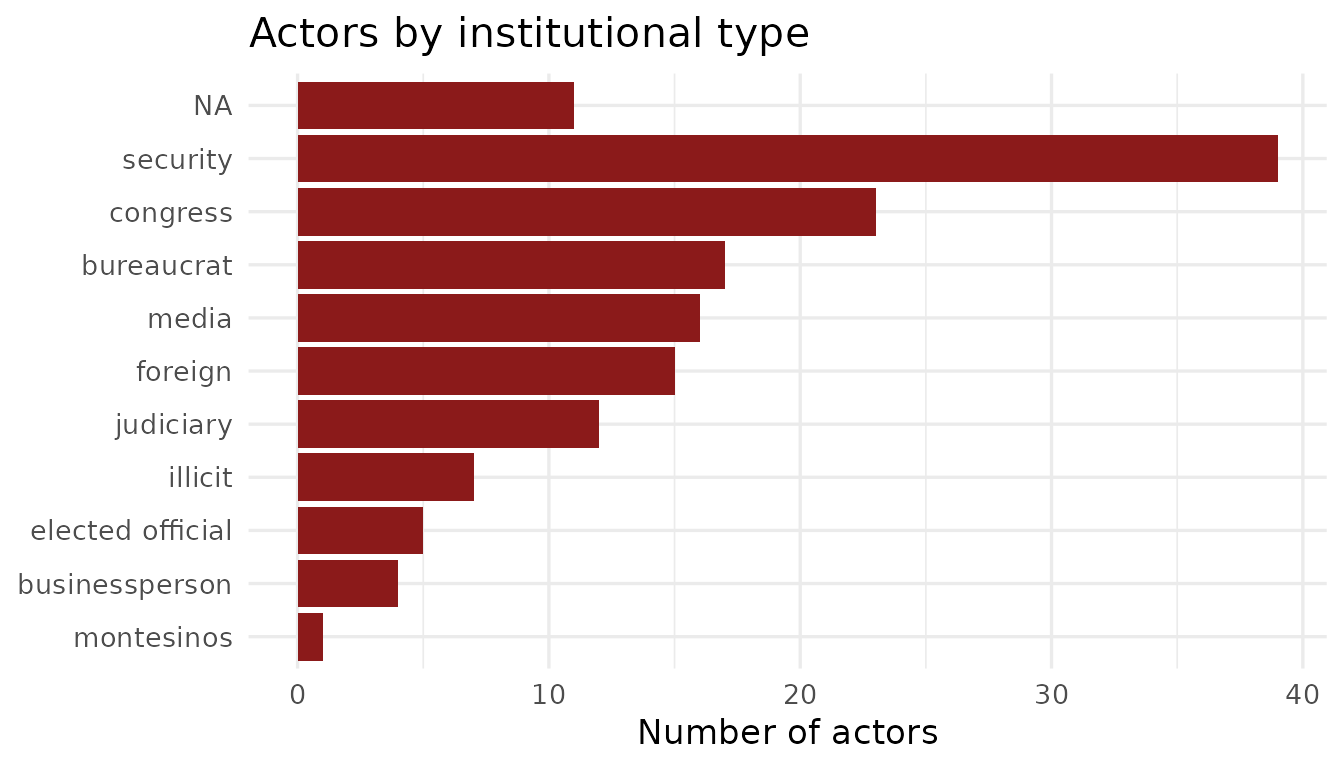
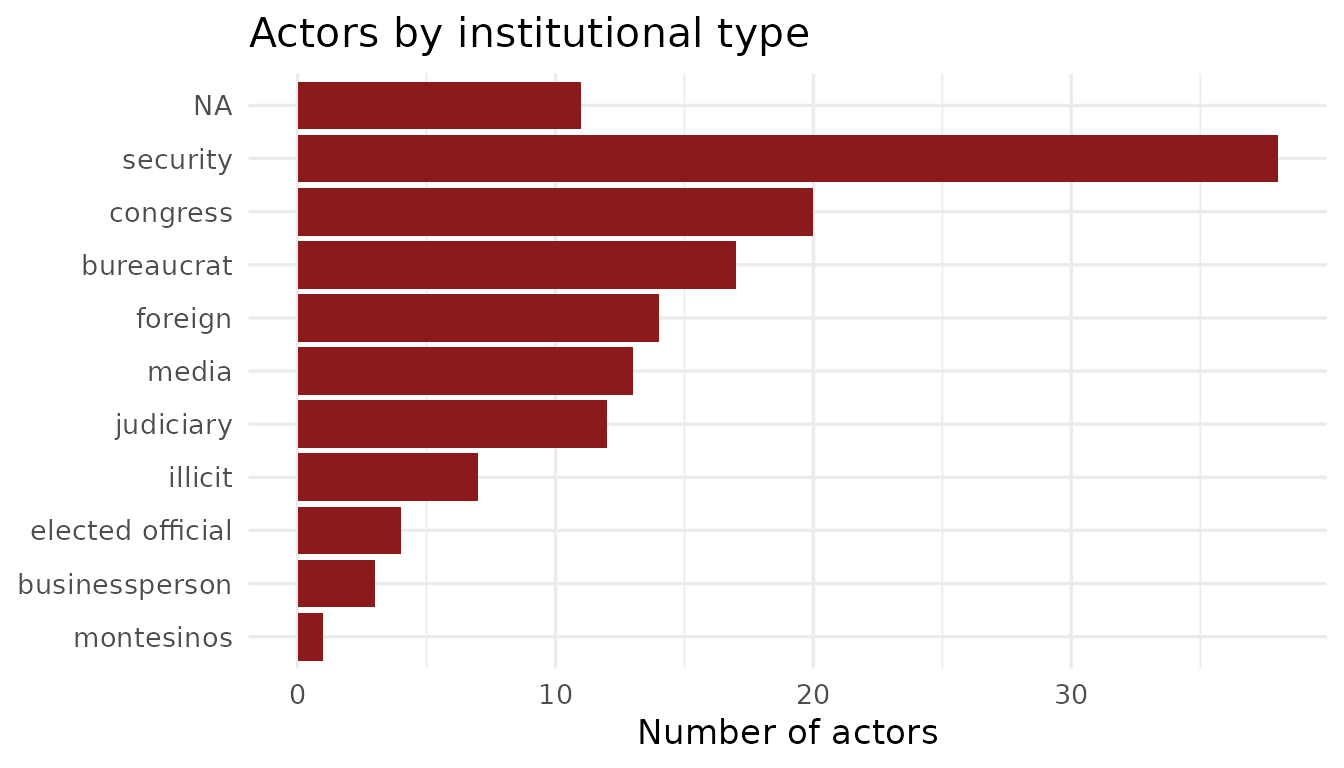
Deploying to gh-pages from @ jessietrudeau/BribeR@ea27d6f9f49f3cec55bac36ad1629fcfcb298547 🚀

diff --git a/articles/briber_data_guide.html b/articles/briber_data_guide.html
@@ -310,20 +310,20 @@ maximum of 19.</p>
 <h3 id="actors">
 <code>actors</code><a class="anchor" aria-label="anchor" href="#actors"></a>
 </h3>
-<p>This file contains biographical and institutional metadata for 150
-individuals named in the transcripts. The variable names are shown in
-the below table.</p>
+<p>This file contains biographical and institutional metadata for the
+140 individuals recorded speaking in the transcripts. The variable names
+are shown in the below table.</p>
 <div class="sourceCode" id="cb5"><pre class="downlit sourceCode r">
 <code class="sourceCode R"><span><span class="fu"><a href="https://rdrr.io/r/utils/head.html" class="external-link">head</a></span><span class="op">(</span><span class="va">actors</span><span class="op">)</span></span>
-<span><span class="co">#&gt; <span style="color: #949494;"># A tibble: 6 × 7</span></span></span>
-<span><span class="co">#&gt;   speaker                      speaker_std position type  party notes is_speaker</span></span>
-<span><span class="co">#&gt;   <span style="color: #949494; font-style: italic;">&lt;chr&gt;</span>                        <span style="color: #949494; font-style: italic;">&lt;chr&gt;</span>       <span style="color: #949494; font-style: italic;">&lt;chr&gt;</span>    <span style="color: #949494; font-style: italic;">&lt;chr&gt;</span> <span style="color: #949494; font-style: italic;">&lt;chr&gt;</span> <span style="color: #949494; font-style: italic;">&lt;chr&gt;</span>      <span style="color: #949494; font-style: italic;">&lt;int&gt;</span></span></span>
-<span><span class="co">#&gt; <span style="color: #BCBCBC;">1</span> vladimir montesinos          montesinos  Head of… mont… <span style="color: #BB0000;">NA</span>    <span style="color: #BB0000;">NA</span>             1</span></span>
-<span><span class="co">#&gt; <span style="color: #BCBCBC;">2</span> desconocido                  desconocido <span style="color: #BB0000;">NA</span>       <span style="color: #BB0000;">NA</span>    <span style="color: #BB0000;">NA</span>    <span style="color: #BB0000;">NA</span>             1</span></span>
-<span><span class="co">#&gt; <span style="color: #BCBCBC;">3</span> alexander martin kouri buma… alex kouri  Congres… cong… PPC   <span style="color: #BB0000;">NA</span>             1</span></span>
-<span><span class="co">#&gt; <span style="color: #BCBCBC;">4</span> representante de lucchetti   lucchetti   Represe… busi… <span style="color: #BB0000;">NA</span>    The …          1</span></span>
-<span><span class="co">#&gt; <span style="color: #BCBCBC;">5</span> carlos eduardo ferrero costa ferrero     Congres… cong… NM    Mult…          1</span></span>
-<span><span class="co">#&gt; <span style="color: #BCBCBC;">6</span> alberto fujimori             fujimori    Preside… elec… <span style="color: #BB0000;">NA</span>    <span style="color: #BB0000;">NA</span>             1</span></span></code></pre></div>
+<span><span class="co">#&gt; <span style="color: #949494;"># A tibble: 6 × 6</span></span></span>
+<span><span class="co">#&gt;   speaker                         speaker_std position         type  party notes</span></span>
+<span><span class="co">#&gt;   <span style="color: #949494; font-style: italic;">&lt;chr&gt;</span>                           <span style="color: #949494; font-style: italic;">&lt;chr&gt;</span>       <span style="color: #949494; font-style: italic;">&lt;chr&gt;</span>            <span style="color: #949494; font-style: italic;">&lt;chr&gt;</span> <span style="color: #949494; font-style: italic;">&lt;chr&gt;</span> <span style="color: #949494; font-style: italic;">&lt;chr&gt;</span></span></span>
+<span><span class="co">#&gt; <span style="color: #BCBCBC;">1</span> vladimir montesinos             montesinos  Head of Nationa… mont… <span style="color: #BB0000;">NA</span>    <span style="color: #BB0000;">NA</span>   </span></span>
+<span><span class="co">#&gt; <span style="color: #BCBCBC;">2</span> desconocido                     desconocido <span style="color: #BB0000;">NA</span>               <span style="color: #BB0000;">NA</span>    <span style="color: #BB0000;">NA</span>    <span style="color: #BB0000;">NA</span>   </span></span>
+<span><span class="co">#&gt; <span style="color: #BCBCBC;">3</span> alexander martin kouri bumachar alex kouri  Congressman (19… cong… PPC   <span style="color: #BB0000;">NA</span>   </span></span>
+<span><span class="co">#&gt; <span style="color: #BCBCBC;">4</span> representante de lucchetti      lucchetti   Representative … busi… <span style="color: #BB0000;">NA</span>    The …</span></span>
+<span><span class="co">#&gt; <span style="color: #BCBCBC;">5</span> carlos eduardo ferrero costa    ferrero     Congressman (19… cong… NM    Mult…</span></span>
+<span><span class="co">#&gt; <span style="color: #BCBCBC;">6</span> alberto fujimori                fujimori    President of Pe… elec… <span style="color: #BB0000;">NA</span>    <span style="color: #BB0000;">NA</span></span></span></code></pre></div>
 <table class="table">
 <colgroup>
 <col width="25%">
@@ -377,15 +377,6 @@ abbreviation variable for Peru in the V-Party dataset: &lt;code&gt;NM&lt;/code&g
 <td>character</td>
 <td>Miscellaneous notes for actors that were difficult to identify</td>
 </tr>
-<tr class="odd">
-<td><code>is_speaker</code></td>
-<td>integer</td>
-<td>1 if the individual has at least one speech turn in the corpus, 0 if
-they are named in the archive but never recorded speaking. Only those
-with <code>is_speaker == 1</code> can be filtered with
-<code><a href="../reference/get_transcript_id.html">get_transcript_id()</a></code>
-</td>
-</tr>
 </tbody>
 </table>
 <p>For example, the file contains this biographical information about
@@ -398,9 +389,9 @@ some of the speakers from Fujimori’s party:</p>
 <span><span class="co">#&gt; <span style="color: #949494;"># A tibble: 3 × 5</span></span></span>
 <span><span class="co">#&gt;   speaker               speaker_std position              type     party</span></span>
 <span><span class="co">#&gt;   <span style="color: #949494; font-style: italic;">&lt;chr&gt;</span>                 <span style="color: #949494; font-style: italic;">&lt;chr&gt;</span>       <span style="color: #949494; font-style: italic;">&lt;chr&gt;</span>                 <span style="color: #949494; font-style: italic;">&lt;chr&gt;</span>    <span style="color: #949494; font-style: italic;">&lt;chr&gt;</span></span></span>
-<span><span class="co">#&gt; <span style="color: #BCBCBC;">1</span> rafael urrelo guerra  urrelo      Congressman 1995-2000 congress NM   </span></span>
-<span><span class="co">#&gt; <span style="color: #BCBCBC;">2</span> carlos blanco oropeza blanco      Congressman 1995-2000 congress NM   </span></span>
-<span><span class="co">#&gt; <span style="color: #BCBCBC;">3</span> jorge trelles montero trelles     Congressman 1995-2000 congress NM</span></span></code></pre></div>
+<span><span class="co">#&gt; <span style="color: #BCBCBC;">1</span> carlos blanco oropeza blanco      Congressman 1995-2000 congress NM   </span></span>
+<span><span class="co">#&gt; <span style="color: #BCBCBC;">2</span> jorge trelles montero trelles     Congressman 1995-2000 congress NM   </span></span>
+<span><span class="co">#&gt; <span style="color: #BCBCBC;">3</span> eduardo pando pacheco pando       Congressman 1995-2000 congress NM</span></span></code></pre></div>
 </div>
 </div>
 <div class="section level2">
@@ -492,7 +483,7 @@ can reference them by name after <code><a href="https://jessietrudeau.github.io/
 <span><span class="co">#&gt; [1] 45342</span></span>
 <span><span class="fu"><a href="https://rdrr.io/r/base/names.html" class="external-link">names</a></span><span class="op">(</span><span class="va">actors</span><span class="op">)</span></span>
 <span><span class="co">#&gt; [1] "speaker"     "speaker_std" "position"    "type"        "party"      </span></span>
-<span><span class="co">#&gt; [6] "notes"       "is_speaker"</span></span></code></pre></div>
+<span><span class="co">#&gt; [6] "notes"</span></span></code></pre></div>
 </div>
 
   </main><aside class="col-md-3"><nav id="toc" aria-label="Table of contents"><h2>On this page</h2>

diff --git a/articles/using_briber.html b/articles/using_briber.html
@@ -190,9 +190,8 @@ these speakers are present.</p>
 <span><span class="va">kouri_crousillat_ids</span></span>
 <span><span class="co">#&gt; [1] 82</span></span></code></pre></div>
 <p>There are 140 speaker IDs that <code><a href="../reference/get_transcript_id.html">get_transcript_id()</a></code> can
-filter on. The <code>actors</code> dataset lists 150 individuals in
-total; those with <code>is_speaker == 1</code> are the ones recorded
-speaking in the corpus.</p>
+filter on, one for each individual in the <code>actors</code>
+dataset.</p>
 </div>
 <div class="section level3">
 <h3 id="by-topic">By topic<a class="anchor" aria-label="anchor" href="#by-topic"></a>
@@ -347,14 +346,13 @@ index:</p>
 <span>  <span class="fu"><a href="https://dplyr.tidyverse.org/reference/filter.html" class="external-link">filter</a></span><span class="op">(</span><span class="va">type</span> <span class="op">==</span> <span class="st">"media"</span><span class="op">)</span> <span class="op">|&gt;</span></span>
 <span>  <span class="fu"><a href="https://dplyr.tidyverse.org/reference/pull.html" class="external-link">pull</a></span><span class="op">(</span><span class="va">speaker_std</span><span class="op">)</span> </span>
 <span><span class="va">media_actors</span></span>
-<span><span class="co">#&gt;  [1] "valenzuela"              "vera"                   </span></span>
-<span><span class="co">#&gt;  [3] "hildebrant"              "iberico"                </span></span>
-<span><span class="co">#&gt;  [5] "crousillat carreno"      "genaro delgado parker"  </span></span>
-<span><span class="co">#&gt;  [7] "locutor"                 "schutz"                 </span></span>
-<span><span class="co">#&gt;  [9] "silva"                   "ricketts"               </span></span>
-<span><span class="co">#&gt; [11] "vera abad"               "perez"                  </span></span>
-<span><span class="co">#&gt; [13] "crousillat lopez torres" "manuel delgado parker"  </span></span>
-<span><span class="co">#&gt; [15] "valcarcel"               "winter zuzunaga"</span></span>
+<span><span class="co">#&gt;  [1] "vera"                    "crousillat carreno"     </span></span>
+<span><span class="co">#&gt;  [3] "genaro delgado parker"   "locutor"                </span></span>
+<span><span class="co">#&gt;  [5] "schutz"                  "silva"                  </span></span>
+<span><span class="co">#&gt;  [7] "ricketts"                "vera abad"              </span></span>
+<span><span class="co">#&gt;  [9] "perez"                   "crousillat lopez torres"</span></span>
+<span><span class="co">#&gt; [11] "manuel delgado parker"   "valcarcel"              </span></span>
+<span><span class="co">#&gt; [13] "winter zuzunaga"</span></span>
 <span></span>
 <span></span>
 <span><span class="co"># Step 2: Filter for transcripts where media actors are present</span></span>

diff --git a/articles/raw_data_guide.html b/articles/raw_data_guide.html
@@ -143,8 +143,8 @@ pidiendo (ininteligible) y que habíamos quedado te acuerdas
 </div>
 <p><strong>BribeR</strong> provides structured access to transcripts of
 96 of these recordings, which contain 45,342 individual speech turns.
-The package also includes relevant metadata about 150 named individuals
-and 15 topics.</p>
+The package also includes relevant metadata about the 140 individuals
+recorded speaking and 15 topics.</p>
 <p>This page introduces the raw data, highlighting how it is organized
 at the transcript-, actor-, and topic-level. This page uses some of the
 functions included in <strong>BribeR</strong>, all of which are detailed
@@ -207,8 +207,8 @@ conversation).</p>
 <div class="section level2">
 <h2 id="actors">Actors<a class="anchor" aria-label="anchor" href="#actors"></a>
 </h2>
-<p>Users can access biographical and institutional metadata for the 150
-individuals named in the Vladivideos transcripts through the
+<p>Users can access biographical and institutional metadata for the 140
+individuals recorded speaking in the Vladivideos transcripts through the
 <code>actors</code> dataset. Each person is classified by their
 institutional role at the time of the recordings.</p>
 <div class="sourceCode" id="cb3"><pre class="downlit sourceCode r">

diff --git a/reference/actors.html b/reference/actors.html
@@ -60,7 +60,7 @@ Vladivideos transcripts.</p>
 
     <div class="section level2">
     <h2 id="format">Format<a class="anchor" aria-label="anchor" href="#format"></a></h2>
-    <p>A tibble with 118 rows and 7 variables:</p><dl><dt>speaker</dt>
+    <p>A tibble with 140 rows and 6 variables:</p><dl><dt>speaker</dt>
 <dd><p>Full name of the individual.</p></dd>
 
 <dt>speaker_std</dt>
@@ -86,12 +86,6 @@ Peru: <code>"NM"</code>, <code>"PAP"</code>, <code>"RN"</code>, <code>"PP"</code
 
 <dt>notes</dt>
 <dd><p>Additional notes on the individual.</p></dd>
-
-<dt>is_speaker</dt>
-<dd><p>Integer indicator: 1 if the individual has at least one
-speech turn in the transcript corpus, 0 if they are named in the archive
-but never recorded speaking. Only individuals with <code>is_speaker == 1</code>
-can be used to filter with <code><a href="get_transcript_id.html">get_transcript_id</a></code>.</p></dd>
 
 
 </dl></div>

diff --git a/articles/briber_data_guide.md b/articles/briber_data_guide.md
@@ -133,22 +133,22 @@ speakers_per_transcript %>%
 
 ### `actors`
 
-This file contains biographical and institutional metadata for 150
-individuals named in the transcripts. The variable names are shown in
-the below table.
+This file contains biographical and institutional metadata for the 140
+individuals recorded speaking in the transcripts. The variable names are
+shown in the below table.
 
 ``` r
 
 head(actors)
-#> # A tibble: 6 × 7
-#>   speaker                      speaker_std position type  party notes is_speaker
-#>   <chr>                        <chr>       <chr>    <chr> <chr> <chr>      <int>
-#> 1 vladimir montesinos          montesinos  Head of… mont… NA    NA             1
-#> 2 desconocido                  desconocido NA       NA    NA    NA             1
-#> 3 alexander martin kouri buma… alex kouri  Congres… cong… PPC   NA             1
-#> 4 representante de lucchetti   lucchetti   Represe… busi… NA    The …          1
-#> 5 carlos eduardo ferrero costa ferrero     Congres… cong… NM    Mult…          1
-#> 6 alberto fujimori             fujimori    Preside… elec… NA    NA             1
+#> # A tibble: 6 × 6
+#>   speaker                         speaker_std position         type  party notes
+#>   <chr>                           <chr>       <chr>            <chr> <chr> <chr>
+#> 1 vladimir montesinos             montesinos  Head of Nationa… mont… NA    NA   
+#> 2 desconocido                     desconocido NA               NA    NA    NA   
+#> 3 alexander martin kouri bumachar alex kouri  Congressman (19… cong… PPC   NA   
+#> 4 representante de lucchetti      lucchetti   Representative … busi… NA    The …
+#> 5 carlos eduardo ferrero costa    ferrero     Congressman (19… cong… NM    Mult…
+#> 6 alberto fujimori                fujimori    President of Pe… elec… NA    NA
 ```
 
 | Column | Type | Description |
@@ -159,7 +159,6 @@ head(actors)
 | `type` | charater | One of 11 categories described in the [Raw Data Guide](https://jessietrudeau.com/BribeR/articles/raw_data_guide.html): `montesinos`, `security`, `congress`, `judiciary`, `media`, `businessperson`, `elected official`, `bureaucrat`, `foreign`,`illicit`, and unknown (`NA`). |
 | `party` | character | For elected officials, the political party at the time of the recording, given as the [V-Party](https://www.v-dem.net/) abbreviation[^2] |
 | `notes` | character | Miscellaneous notes for actors that were difficult to identify |
-| `is_speaker` | integer | 1 if the individual has at least one speech turn in the corpus, 0 if they are named in the archive but never recorded speaking. Only those with `is_speaker == 1` can be filtered with [`get_transcript_id()`](https://jessietrudeau.github.io/BribeR/reference/get_transcript_id.md) |
 
 For example, the file contains this biographical information about some
 of the speakers from Fujimori’s party:
@@ -173,9 +172,9 @@ actors %>%
 #> # A tibble: 3 × 5
 #>   speaker               speaker_std position              type     party
 #>   <chr>                 <chr>       <chr>                 <chr>    <chr>
-#> 1 rafael urrelo guerra  urrelo      Congressman 1995-2000 congress NM   
-#> 2 carlos blanco oropeza blanco      Congressman 1995-2000 congress NM   
-#> 3 jorge trelles montero trelles     Congressman 1995-2000 congress NM
+#> 1 carlos blanco oropeza blanco      Congressman 1995-2000 congress NM   
+#> 2 jorge trelles montero trelles     Congressman 1995-2000 congress NM   
+#> 3 eduardo pando pacheco pando       Congressman 1995-2000 congress NM
 ```
 
 ## Linking datasets
@@ -246,7 +245,7 @@ nrow(compiled_transcripts)
 #> [1] 45342
 names(actors)
 #> [1] "speaker"     "speaker_std" "position"    "type"        "party"      
-#> [6] "notes"       "is_speaker"
+#> [6] "notes"
 ```
 
 [^1]: We generate a new number within the BribeR package, see the

diff --git a/articles/using_briber.md b/articles/using_briber.md
@@ -138,9 +138,7 @@ kouri_crousillat_ids
 
 There are 140 speaker IDs that
 [`get_transcript_id()`](https://jessietrudeau.github.io/BribeR/reference/get_transcript_id.md)
-can filter on. The `actors` dataset lists 150 individuals in total;
-those with `is_speaker == 1` are the ones recorded speaking in the
-corpus.
+can filter on, one for each individual in the `actors` dataset.
 
 ### By topic
 
@@ -312,14 +310,13 @@ media_actors <- actors |>
   filter(type == "media") |>
   pull(speaker_std) 
 media_actors
-#>  [1] "valenzuela"              "vera"                   
-#>  [3] "hildebrant"              "iberico"                
-#>  [5] "crousillat carreno"      "genaro delgado parker"  
-#>  [7] "locutor"                 "schutz"                 
-#>  [9] "silva"                   "ricketts"               
-#> [11] "vera abad"               "perez"                  
-#> [13] "crousillat lopez torres" "manuel delgado parker"  
-#> [15] "valcarcel"               "winter zuzunaga"
+#>  [1] "vera"                    "crousillat carreno"     
+#>  [3] "genaro delgado parker"   "locutor"                
+#>  [5] "schutz"                  "silva"                  
+#>  [7] "ricketts"                "vera abad"              
+#>  [9] "perez"                   "crousillat lopez torres"
+#> [11] "manuel delgado parker"   "valcarcel"              
+#> [13] "winter zuzunaga"
 
 
 # Step 2: Filter for transcripts where media actors are present

diff --git a/articles/raw_data_guide.md b/articles/raw_data_guide.md
@@ -72,8 +72,8 @@ conversamos más directos acá, quedamos así (ininteligible).*
 
 **BribeR** provides structured access to transcripts of 96 of these
 recordings, which contain 45,342 individual speech turns. The package
-also includes relevant metadata about 150 named individuals and 15
-topics.
+also includes relevant metadata about the 140 individuals recorded
+speaking and 15 topics.
 
 This page introduces the raw data, highlighting how it is organized at
 the transcript-, actor-, and topic-level. This page uses some of the
@@ -141,10 +141,10 @@ ggplot(meta, aes(x = n_words)) +
 
 ## Actors
 
-Users can access biographical and institutional metadata for the 150
-individuals named in the Vladivideos transcripts through the `actors`
-dataset. Each person is classified by their institutional role at the
-time of the recordings.
+Users can access biographical and institutional metadata for the 140
+individuals recorded speaking in the Vladivideos transcripts through the
+`actors` dataset. Each person is classified by their institutional role
+at the time of the recordings.
 
 ``` r
 

diff --git a/reference/actors.md b/reference/actors.md
@@ -11,7 +11,7 @@ actors
 
 ## Format
 
-A tibble with 118 rows and 7 variables:
+A tibble with 140 rows and 6 variables:
 
 - speaker:
 
@@ -43,14 +43,6 @@ A tibble with 118 rows and 7 variables:
 - notes:
 
   Additional notes on the individual.
-
-- is_speaker:
-
-  Integer indicator: 1 if the individual has at least one speech turn in
-  the transcript corpus, 0 if they are named in the archive but never
-  recorded speaking. Only individuals with `is_speaker == 1` can be used
-  to filter with
-  [`get_transcript_id`](https://jessietrudeau.github.io/BribeR/reference/get_transcript_id.md).
 
 ## Source
 
